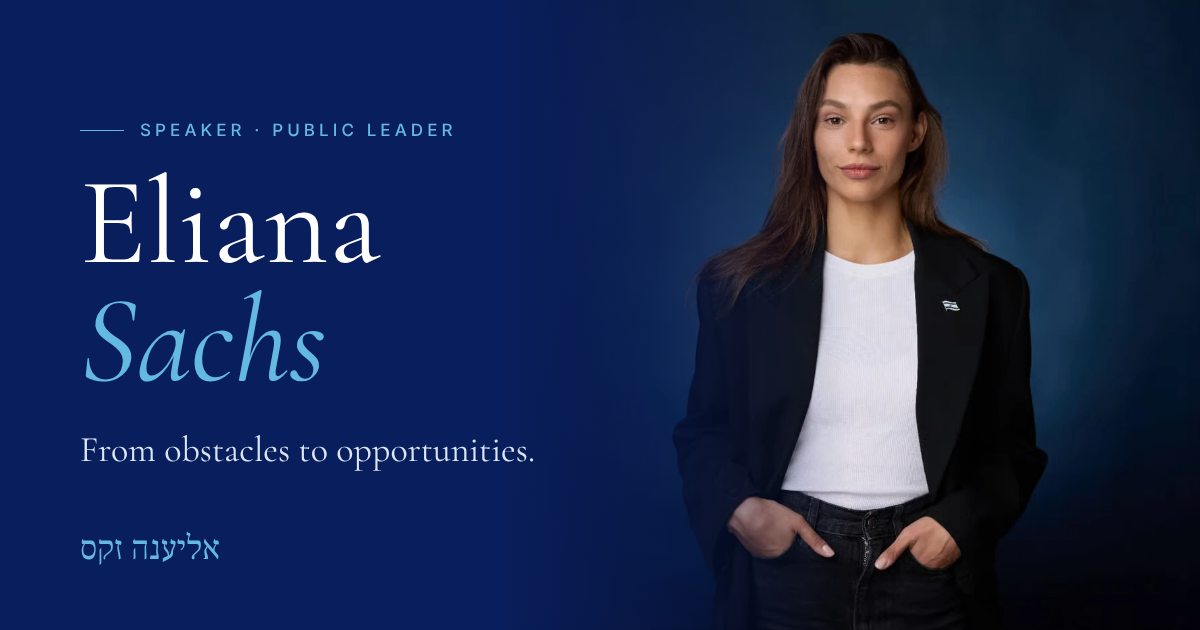
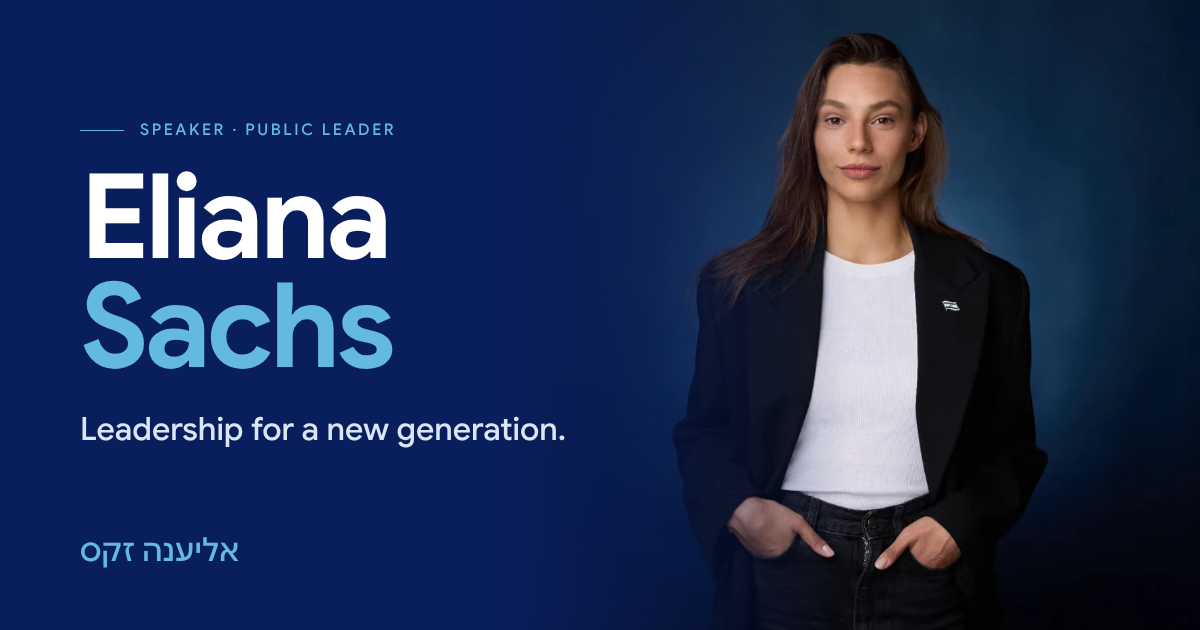
Tagline: Leadership for a new generation; talk back to Choosing to Rise (#13)
'From obstacles to opportunities' framed her loss as an obstacle. The
tagline now speaks only to leadership. Share image re-rendered in Google
Sans to match the site.

Claude-Session: https://claude.ai/code/session_01NjdA9RwEG6wfZWgbDrMcKY

diff --git a/index.html b/index.html
@@ -13,7 +13,7 @@
 
   <meta property="og:type" content="website">
   <meta property="og:site_name" content="Eliana Sachs">
-  <meta property="og:title" content="Eliana Sachs — From obstacles to opportunities">
+  <meta property="og:title" content="Eliana Sachs — Leadership for a new generation">
   <meta property="og:description" content="Speaker · Head of the Youth Headquarters, Yashar! · Marketing & tech professional · Model. Book a lecture or get in touch.">
   <meta property="og:url" content="https://elianasachs.com/">
   <meta property="og:image" content="https://elianasachs.com/assets/img/og-image.png">
@@ -118,8 +118,8 @@
             <span data-l="he">אליענה<br><em>זקס</em></span>
           </h1>
           <p class="hero-tagline reveal reveal-d2">
-            <span data-l="en">From obstacles to opportunities.</span>
-            <span data-l="he">ממכשולים להזדמנויות.</span>
+            <span data-l="en">Leadership for a new generation.</span>
+            <span data-l="he">מנהיגות של דור חדש.</span>
           </p>
           <p class="hero-alt reveal reveal-d2"><span data-l="en" lang="he" dir="rtl">אליענה זקס</span><span data-l="he" lang="en" dir="ltr">Eliana Sachs</span></p>
           <div class="hero-cta reveal reveal-d3">
@@ -451,7 +451,7 @@
         <div class="topics">
           <article class="topic reveal">
             <span class="topic-num">I</span>
-            <h3><span data-l="en">How to Turn Obstacles into Opportunities</span><span data-l="he">איך הופכים מכשולים להזדמנויות</span></h3>
+            <h3><span data-l="en">Choosing to Rise</span><span data-l="he">לבחור לקום</span></h3>
             <p class="for"><span data-l="en">Keynote · All audiences</span><span data-l="he">הרצאה מרכזית · לכל קהל</span></p>
             <p><span data-l="en">Her signature talk. How do you go on when half your family is gone in a moment? Twenty wishes, twenty traits, and the daily decision to turn life's hardest challenges into opportunity — and pain into purpose.</span><span data-l="he">ההרצאה המזוהה איתה. איך ממשיכים כשחצי מהמשפחה נעלמת ברגע? עשרים משאלות, עשרים תכונות, וההחלטה היומיומית להפוך את האתגרים הקשים ביותר להזדמנות — ואת הכאב למשמעות.</span></p>
           </article>

diff --git a/middleware.js b/middleware.js
@@ -77,7 +77,7 @@ function loginPage(next, failed) {
 <meta name="viewport" content="width=device-width, initial-scale=1">
 <meta name="robots" content="noindex">
 <title>Eliana Sachs · אליענה זקס</title>
-<meta property="og:title" content="Eliana Sachs — From obstacles to opportunities">
+<meta property="og:title" content="Eliana Sachs — Leadership for a new generation">
 <meta property="og:image" content="https://elianasachs.com/assets/img/og-image.png">
 <meta name="twitter:card" content="summary_large_image">
 <meta name="theme-color" content="#091e5c">
